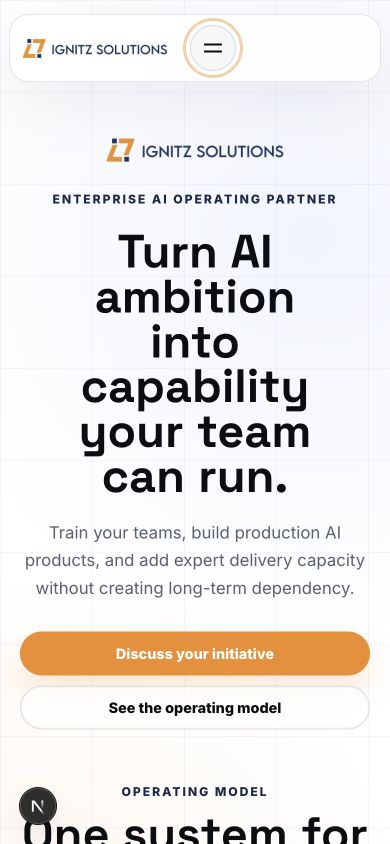
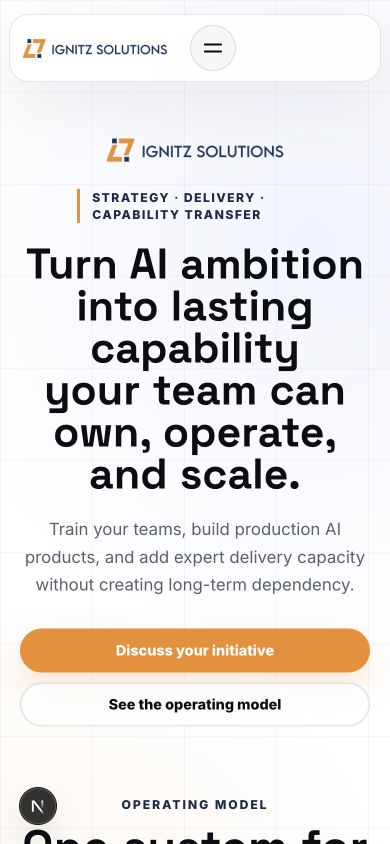
ui: refine hero and footer layout

diff --git a/src/app/globals.css b/src/app/globals.css
@@ -9868,23 +9868,25 @@ body {
 .footer-link-groups {
   display: grid;
   grid-template-columns: repeat(6, minmax(0, 1fr));
-  gap: 0;
-  width: auto;
-  margin: 0 clamp(18px, 3vw, 38px);
-  overflow: hidden;
-  border: 1px solid rgba(23, 40, 74, 0.1);
-  border-radius: 20px;
-  background: rgba(255, 255, 255, 0.68);
-  backdrop-filter: blur(12px);
+  gap: clamp(18px, 2.4vw, 36px);
+  width: min(calc(100% - 76px), 1320px);
+  margin: 0 auto;
+  overflow: visible;
+  border: 0;
+  border-radius: 0;
+  background: transparent;
+  backdrop-filter: none;
 }
 
 .footer-link-groups nav {
-  min-height: 220px;
+  min-width: 0;
+  min-height: 190px;
   display: grid;
   align-content: start;
   gap: 12px;
-  padding: clamp(20px, 2.6vw, 30px);
-  border-right: 1px solid rgba(23, 40, 74, 0.09);
+  padding: 24px 0;
+  border-top: 1px solid rgba(23, 40, 74, 0.14);
+  border-right: 0;
 }
 
 .footer-link-groups nav:last-child {
@@ -9901,6 +9903,8 @@ body {
 }
 
 .footer-link-groups a {
+  max-width: 16ch;
+  overflow-wrap: anywhere;
   color: #20252f;
   font-size: 0.98rem;
   font-weight: 820;
@@ -10016,7 +10020,8 @@ body {
 
   .footer-link-groups {
     grid-template-columns: 1fr;
-    margin: 0 12px;
+    width: calc(100% - 24px);
+    margin: 0 auto;
   }
 
   .footer-link-groups nav,
@@ -14442,11 +14447,11 @@ body {
 }
 
 .home-hero {
-  padding: clamp(72px, 10vw, 144px) 0 28px;
+  padding: clamp(58px, 7vw, 96px) 0 44px;
 }
 
 .home-hero-inner {
-  max-width: 760px;
+  max-width: 1040px;
   margin: 0 auto;
   display: grid;
   justify-items: center;
@@ -14460,8 +14465,18 @@ body {
 }
 
 .home-hero h1 {
-  max-width: 11ch;
-  font-size: clamp(3.1rem, 7vw, 6.8rem);
+  max-width: 18ch;
+  font-size: clamp(3.2rem, 5.4vw, 5.9rem);
+  line-height: 0.96;
+  text-wrap: balance;
+}
+
+.home-hero-kicker {
+  padding-left: 12px;
+  border-left: 3px solid var(--orange);
+  color: var(--navy);
+  letter-spacing: 0.12em;
+  line-height: 1.4;
 }
 
 .home-hero-lead {
@@ -14683,8 +14698,14 @@ body {
   }
 
   .home-hero h1 {
-    max-width: 10ch;
-    font-size: clamp(2.8rem, 12vw, 4.6rem);
+    max-width: 13ch;
+    font-size: clamp(2.65rem, 11vw, 4.2rem);
+    line-height: 0.98;
+  }
+
+  .home-hero-kicker {
+    max-width: 28ch;
+    text-align: left;
   }
 
   .home-hero-actions {

diff --git a/src/components/Sections.tsx b/src/components/Sections.tsx
@@ -53,8 +53,10 @@ function PrecisionHero() {
     <section className="home-hero" aria-labelledby="home-hero-title">
       <div className="home-hero-inner">
         <BrandLogo className="home-hero-brand" />
-        <p className="eyebrow">Enterprise AI operating partner</p>
-        <h1 id="home-hero-title">Turn AI ambition into capability your team can run.</h1>
+        <p className="eyebrow home-hero-kicker">Strategy · delivery · capability transfer</p>
+        <h1 id="home-hero-title">
+          Turn AI ambition into lasting capability your team can own, operate, and scale.
+        </h1>
         <p className="home-hero-lead">
           Train your teams, build production AI products, and add expert delivery capacity
           without creating long-term dependency.

diff --git a/src/content/site.ts b/src/content/site.ts
@@ -28,7 +28,7 @@ import type {
 
 export const site = {
   name: "Ignitz",
-  url: "https://www.ignitz.net",
+  url: "https://ignitz.tech",
   description:
     "Ignitz helps enterprises train AI-ready teams, build production AI products, and embed expert delivery teams.",
   address: